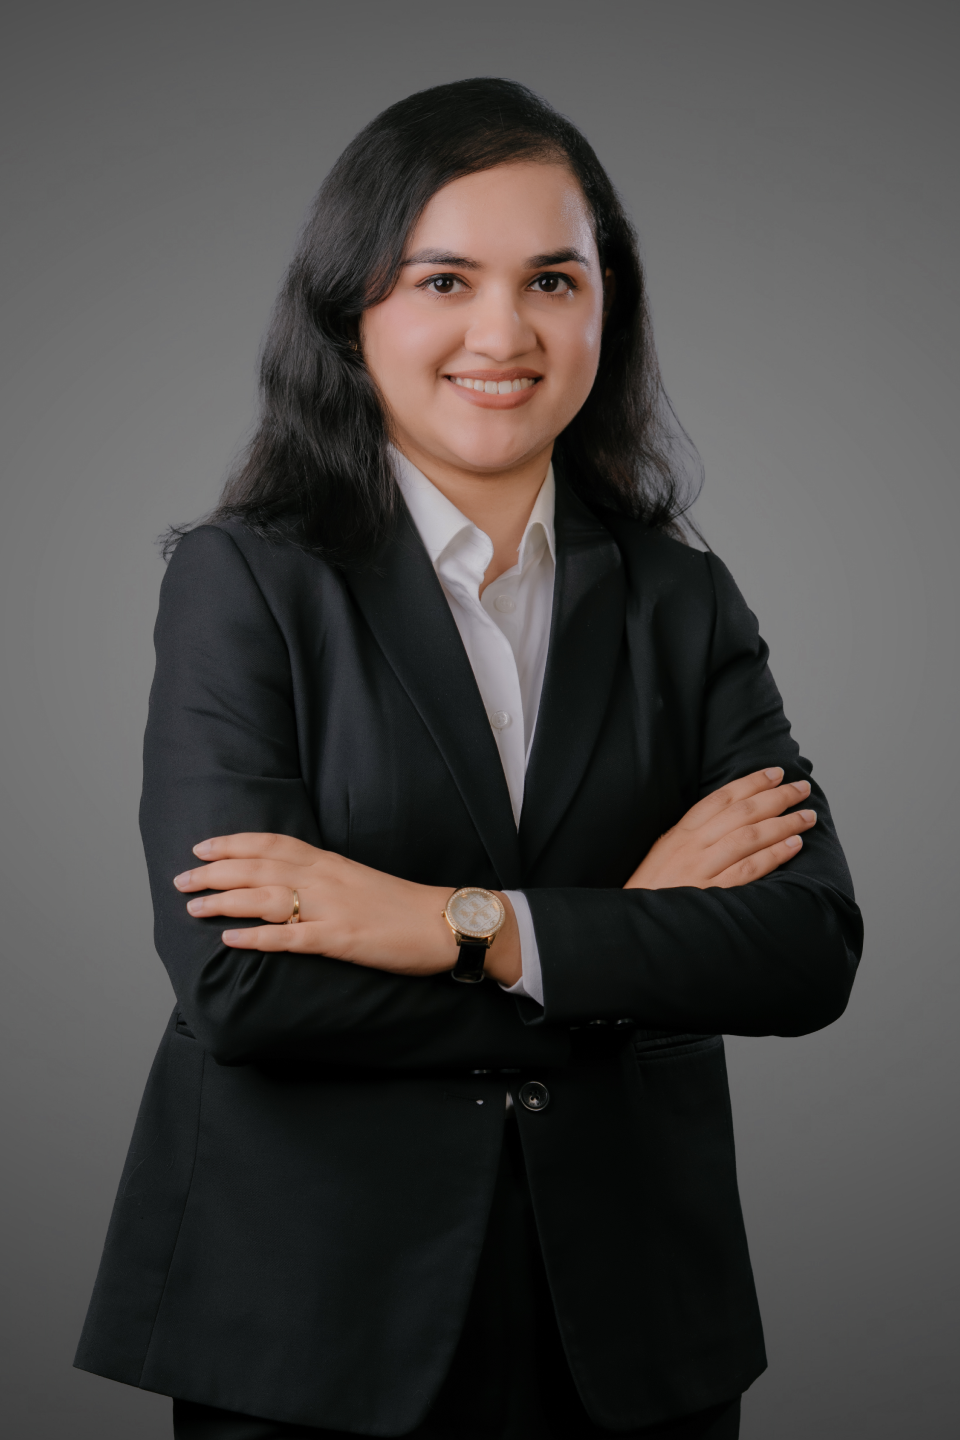
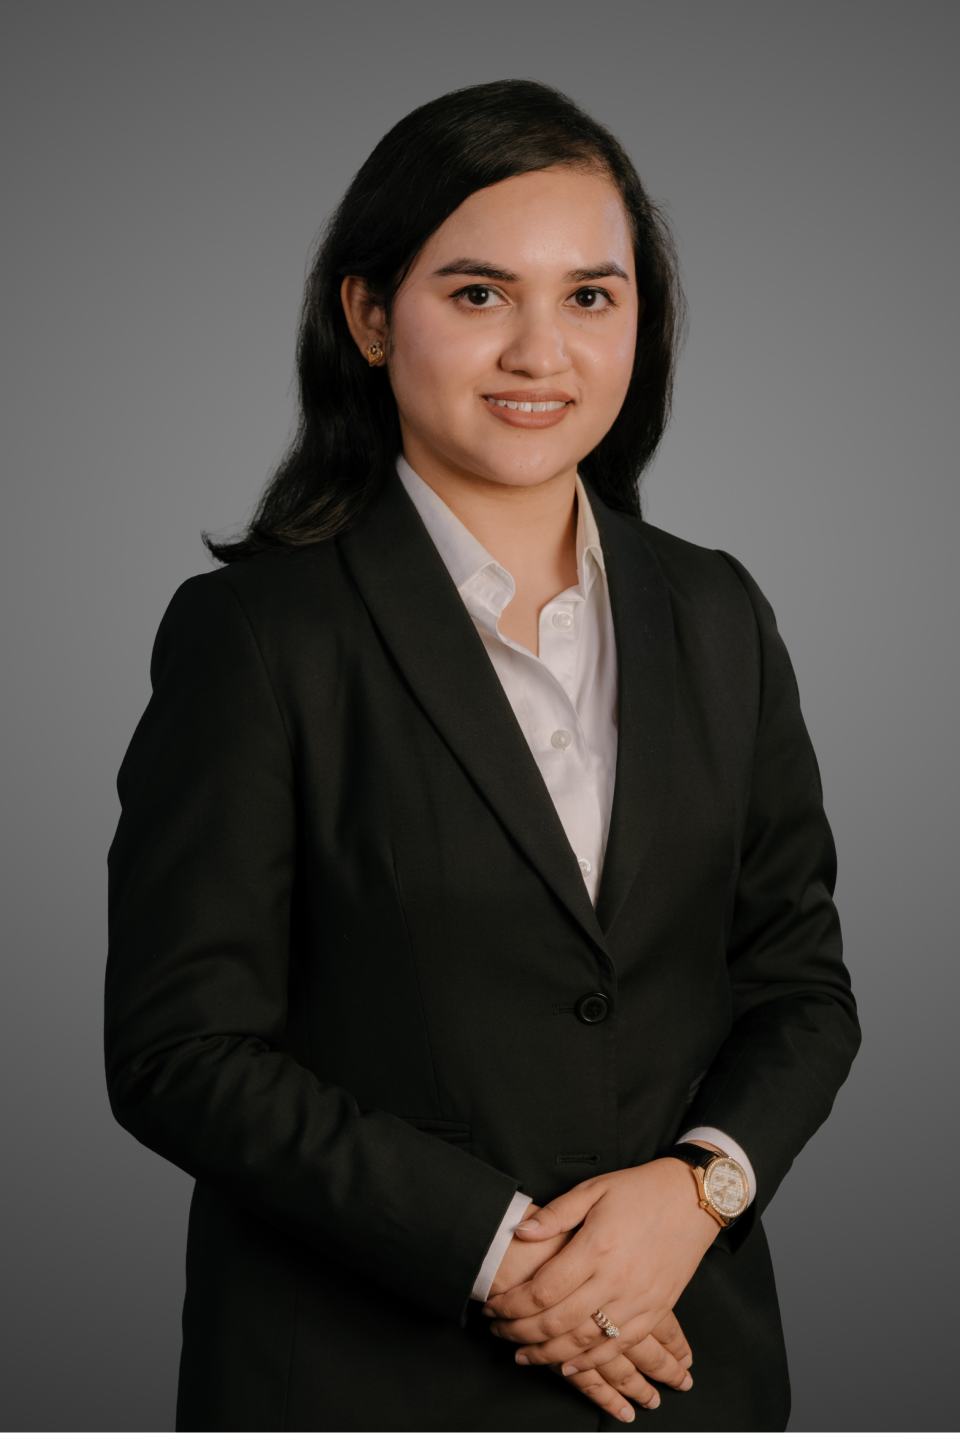
fix: hero section, lawyers page edited

Changed region(s): [[0.0625, 0.0307, 0.9062, 1.0], [0.5625, 0.7062, 0.6875, 0.7676], [0.4062, 0.8904, 0.4375, 0.9211]]

diff --git a/src/app/(site)/page.tsx b/src/app/(site)/page.tsx
@@ -6,14 +6,13 @@ import { FadeIn } from "@/components/fade-in";
 import { Hero, type HeroSlide } from "@/components/hero";
 import { AnimatedNumber } from "@/components/animated-number";
 import { PracticeAreaCard } from "@/components/cards/practice-area-card";
-import { LawyerGrid } from "@/components/lawyer-grid";
 import { ArticlesCarousel } from "@/components/articles-carousel";
 import { ConsultationSection } from "@/components/consultation-section";
 import { TestimonialsMarquee } from "@/components/testimonials-marquee";
 import { InteractiveMarquee } from "@/components/interactive-marquee";
 import { siteConfig } from "@/config/site.config";
 import { mediaConfig } from "@/config/media.config";
-import { getFeaturedLawyers, getAllPracticeAreas } from "@/lib/data";
+import { getAllPracticeAreas } from "@/lib/data";
 import { buildOpenGraph } from "@/lib/seo";
 import { getAllInsights } from "@/lib/content";
 import testimonialsData from "@/data/testimonials.json";
@@ -37,18 +36,18 @@ export const metadata: Metadata = {
 const heroContent: Omit<HeroSlide, "image">[] = [
   {
     eyebrow: `${siteConfig.name} · ${siteConfig.address.addressLocality}`,
-    heading: "Your trusted legal partner.",
-    subheading: "Avon Chambers brings together Barristers, Solicitors, Advocates and Legal Consultants to provide practical legal advice and representation.",
+    heading: "Your trusted legal partner",
+    subheading: "Avon Chambers brings together Barristers, Solicitors, Advocates and Legal Consultants to provide practical legal advice and representation",
   },
   {
     eyebrow: "Our commitment",
-    heading: "Dedicated service. Professional expertise. Practical solutions.",
-    subheading: "We are a dynamic and vibrant chambers committed to clear advice, high professional standards and confidentiality.",
+    heading: "Dedicated service, Professional expertise, Practical solutions",
+    subheading: "We are a dynamic and vibrant chambers committed to clear advice, high professional standards and confidentiality",
   },
   {
     eyebrow: "Practice areas",
-    heading: "Comprehensive legal advice under one roof.",
-    subheading: "Our lawyers have individual expertise across a range of legal matters, serving corporate and private clients.",
+    heading: "Comprehensive legal advice under one roof",
+    subheading: "Our lawyers have individual expertise across a range of legal matters, serving corporate and private clients",
   },
 ];
 
@@ -121,7 +120,6 @@ const process = [
 
 export default async function HomePage() {
   const practiceAreas = getAllPracticeAreas();
-  const featuredLawyers = getFeaturedLawyers();
   const latestInsights = await getAllInsights();
 
   return (
@@ -214,28 +212,7 @@ export default async function HomePage() {
         </div>
       </section>
 
-      {/* 5. Lawyers */}
-      <section className="border-y border-foreground/10 bg-secondary/50">
-        <div className="mx-auto max-w-7xl px-6 py-24 lg:px-10 lg:py-32">
-          <FadeIn className="grid gap-6 sm:grid-cols-[minmax(0,1fr)_auto] sm:items-end">
-            <div className="max-w-2xl">
-              <p className="eyebrow">The practice</p>
-              <h2 className="mt-5 text-3xl text-foreground sm:text-4xl">
-                Lawyers
-              </h2>
-            </div>
-            <Link
-              href="/lawyers"
-              className="inline-flex items-center gap-2 text-[0.75rem] tracking-[0.14em] text-foreground uppercase"
-            >
-              All lawyers <ArrowUpRight className="size-4" />
-            </Link>
-          </FadeIn>
-          <LawyerGrid lawyers={featuredLawyers} gap="gap-8" delayStepMs={70} className="mt-14" />
-        </div>
-      </section>
-
-      {/* 6. Testimonials */}
+      {/* 5. Testimonials */}
       <section className="mx-auto max-w-7xl px-6 py-24 lg:px-10 lg:py-32">
         <FadeIn className="max-w-2xl">
           <p className="eyebrow">Client experience</p>
@@ -246,7 +223,7 @@ export default async function HomePage() {
         <FadeIn className="mt-14"><TestimonialsMarquee testimonials={testimonials} /></FadeIn>
       </section>
 
-      {/* 7. Process */}
+      {/* 6. Process */}
       <section className="border-y border-foreground/10 bg-secondary/50">
         <div className="mx-auto max-w-7xl px-6 py-24 lg:px-10 lg:py-32">
           <FadeIn className="max-w-2xl">
@@ -275,7 +252,7 @@ export default async function HomePage() {
         </div>
       </section>
 
-      {/* 8. Articles */}
+      {/* 7. Articles */}
       <section className="mx-auto max-w-7xl px-6 py-24 lg:px-10 lg:py-32">
         <FadeIn className="grid gap-6 sm:grid-cols-[minmax(0,1fr)_auto] sm:items-end">
           <div className="max-w-2xl">
@@ -302,7 +279,7 @@ export default async function HomePage() {
         )}
       </section>
 
-      {/* 9. Final CTA */}
+      {/* 8. Final CTA */}
       <ConsultationSection />
     </div>
   );

diff --git a/src/app/(site)/lawyers/page.tsx b/src/app/(site)/lawyers/page.tsx
@@ -4,7 +4,7 @@ import { LawyerGrid } from "@/components/lawyer-grid";
 import { ConsultationSection } from "@/components/consultation-section";
 import { JsonLd } from "@/components/seo/json-ld";
 import { siteConfig } from "@/config/site.config";
-import { getLawyersByTier, type LawyerTier } from "@/lib/data";
+import { getLawyersByTier } from "@/lib/data";
 import { breadcrumbSchema } from "@/lib/schema";
 import { buildOpenGraph } from "@/lib/seo";
 
@@ -17,16 +17,22 @@ export const metadata: Metadata = {
   openGraph: buildOpenGraph({ title: `Lawyers — ${siteConfig.name}`, description: DESCRIPTION, url: "/lawyers" }),
 };
 
-/** Section heading per tier — plural where that reads naturally, "Of Counsel" stays as-is. */
-const TIER_LABELS: Record<LawyerTier, string> = {
-  Partner: "Partners",
-  "Senior Associate": "Senior Associates",
-  Associate: "Associates",
-  "Of Counsel": "Of Counsel",
-};
-
 export default function LawyersPage() {
   const tiers = getLawyersByTier();
+
+  // Partners get their own row split — the most senior partner alone,
+  // then the rest — rather than one flat row; every other tier is already
+  // in its intended display order via each lawyer's `position`.
+  const partners = tiers.find((t) => t.tier === "Partner")?.lawyers ?? [];
+  const [leadPartner, ...otherPartners] = partners;
+  // Senior Associates, Associates and Of Counsel all flow through one
+  // undivided section (no border/background split between them), wrapping
+  // naturally at up to 4 per row.
+  const restOfTeam = [
+    ...(tiers.find((t) => t.tier === "Senior Associate")?.lawyers ?? []),
+    ...(tiers.find((t) => t.tier === "Associate")?.lawyers ?? []),
+    ...(tiers.find((t) => t.tier === "Of Counsel")?.lawyers ?? []),
+  ];
 
   return (
     <div>
@@ -52,23 +58,11 @@ export default function LawyersPage() {
         </div>
       </section>
 
-      {tiers.map(({ tier, lawyers }, i) => (
-        <section
-          key={tier}
-          className={
-            i % 2 === 1
-              ? "border-y border-foreground/10 bg-secondary/50"
-              : "mx-auto max-w-7xl px-6 lg:px-10"
-          }
-        >
-          <div className={i % 2 === 1 ? "mx-auto max-w-7xl px-6 py-24 lg:px-10 lg:py-32" : "py-24 lg:py-32"}>
-            <FadeIn className="max-w-2xl">
-              <h2 className="text-3xl text-foreground sm:text-4xl">{TIER_LABELS[tier]}</h2>
-            </FadeIn>
-            <LawyerGrid lawyers={lawyers} className="mt-14" />
-          </div>
-        </section>
-      ))}
+      <section className="mx-auto max-w-7xl px-6 py-24 lg:px-10 lg:py-32">
+        {leadPartner && <LawyerGrid lawyers={[leadPartner]} />}
+        {otherPartners.length > 0 && <LawyerGrid lawyers={otherPartners} className="mt-12" />}
+        <LawyerGrid lawyers={restOfTeam} className="mt-12" />
+      </section>
 
       <ConsultationSection eyebrow="Book a consultation" heading="Not sure who to speak with? Start here." />
     </div>

diff --git a/src/components/lawyer-grid.tsx b/src/components/lawyer-grid.tsx
@@ -3,24 +3,26 @@ import { FadeIn } from "@/components/fade-in";
 import { cn } from "@/lib/utils";
 import type { Lawyer } from "@/types";
 
-/** Grid columns shared by every lawyer listing on the site — keep this the
- *  single source of truth so the home, about, practice-area and directory
- *  sections can never drift out of sync with each other. */
-export const LAWYER_GRID_COLUMNS_CLASS = "sm:grid-cols-2 lg:grid-cols-4";
-
-/** Widest column count `LAWYER_GRID_COLUMNS_CLASS` reaches (its `lg:grid-cols-4`) —
- *  used to size cards identically when a shorter list is centered instead of gridded. */
-const MAX_COLUMNS = 4;
+/**
+ * Card width per breakpoint, paired with each supported `gap`. A plain
+ * `w-1/3` alongside a flex `gap` overflows a 3-up row (the gap adds width
+ * on top of the three 33% shares), which wraps the 3rd card onto its own
+ * line — so each share subtracts its portion of the gap via `calc()`,
+ * keeping true 2-up/3-up rows at their breakpoints.
+ */
+const ITEM_WIDTH_BY_GAP: Record<string, string> = {
+  "gap-12": "w-full sm:w-[calc(50%-1.5rem)] lg:w-[calc(33.333%-2rem)]",
+  "gap-8": "w-full sm:w-[calc(50%-1rem)] lg:w-[calc(33.333%-1.333rem)]",
+};
 
 /**
  * The lawyer-card grid used wherever lawyers are listed (home, about,
  * a practice area's "team" section, and the full directory). Centralizing it
  * means the columns, gap and reveal stagger only need to be tuned once.
  *
- * A list shorter than `MAX_COLUMNS` would otherwise sit flush left with an
- * empty trailing cell (CSS grid never centers a partial row on its own), so
- * those switch to a centered flex row instead — cards keep the exact width
- * they'd have in the full grid, they just don't stretch to fill it.
+ * Always a centered flex-wrap row rather than a CSS grid: flexbox centers
+ * each wrapped line independently, so a remainder row (e.g. 5 cards wrapping
+ * to 4 + 1) auto-centers with no special-casing by count.
  */
 export function LawyerGrid({
   lawyers,
@@ -37,22 +39,12 @@ export function LawyerGrid({
 }) {
   if (lawyers.length === 0) return null;
 
-  const isPartialRow = lawyers.length < MAX_COLUMNS;
+  const itemWidth = ITEM_WIDTH_BY_GAP[gap] ?? ITEM_WIDTH_BY_GAP["gap-12"];
 
   return (
-    <div
-      className={cn(
-        isPartialRow ? "flex flex-wrap justify-center" : cn("grid", LAWYER_GRID_COLUMNS_CLASS),
-        gap,
-        className,
-      )}
-    >
+    <div className={cn("flex flex-wrap justify-center", gap, className)}>
       {lawyers.map((lawyer, index) => (
-        <FadeIn
-          key={lawyer.slug}
-          delay={index * delayStepMs}
-          className={isPartialRow ? "w-full sm:w-1/2 lg:w-1/4" : undefined}
-        >
+        <FadeIn key={lawyer.slug} delay={index * delayStepMs} className={itemWidth}>
           <LawyerCard lawyer={lawyer} />
         </FadeIn>
       ))}

diff --git a/src/components/hero.tsx b/src/components/hero.tsx
@@ -36,7 +36,7 @@ export function Hero({ slides, intervalMs }: { slides: readonly HeroSlide[]; int
 
   return (
     <div
-      className="relative h-[38rem] sm:h-[42rem] lg:h-[44rem]"
+      className="relative h-[32rem] sm:h-[36rem] lg:h-[38rem]"
       onMouseEnter={() => setPaused(true)}
       onMouseLeave={() => setPaused(false)}
     >
